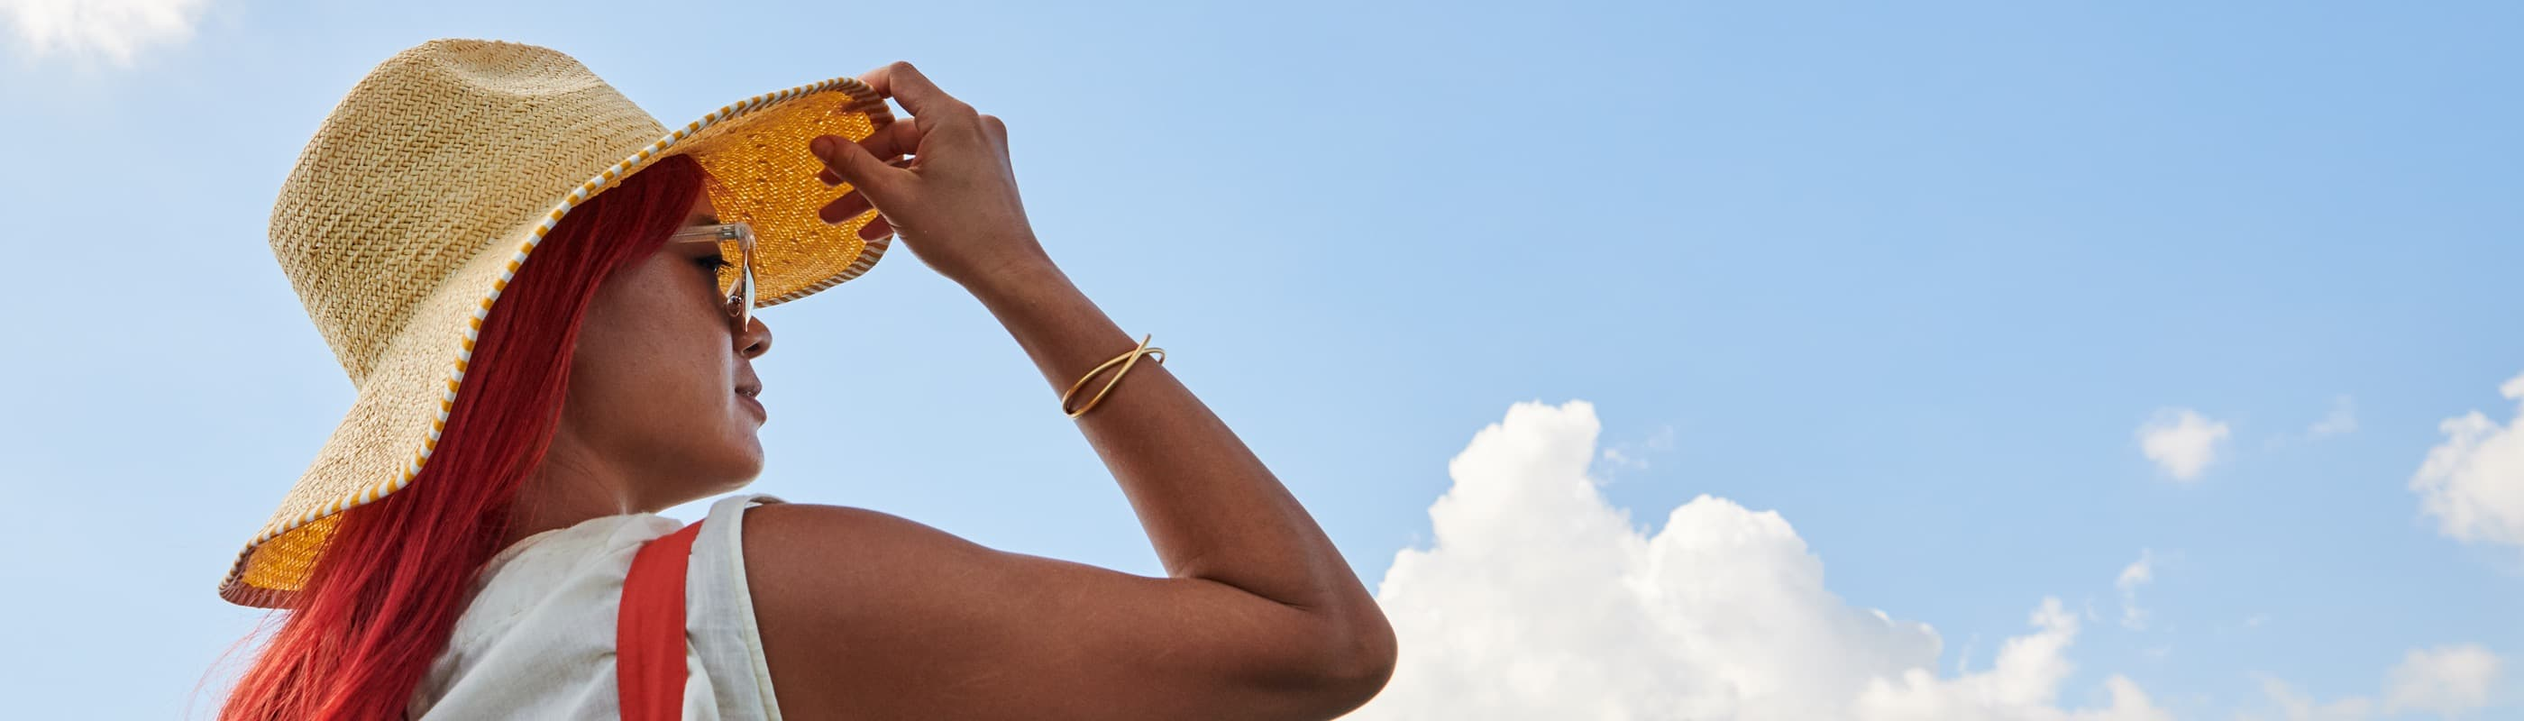
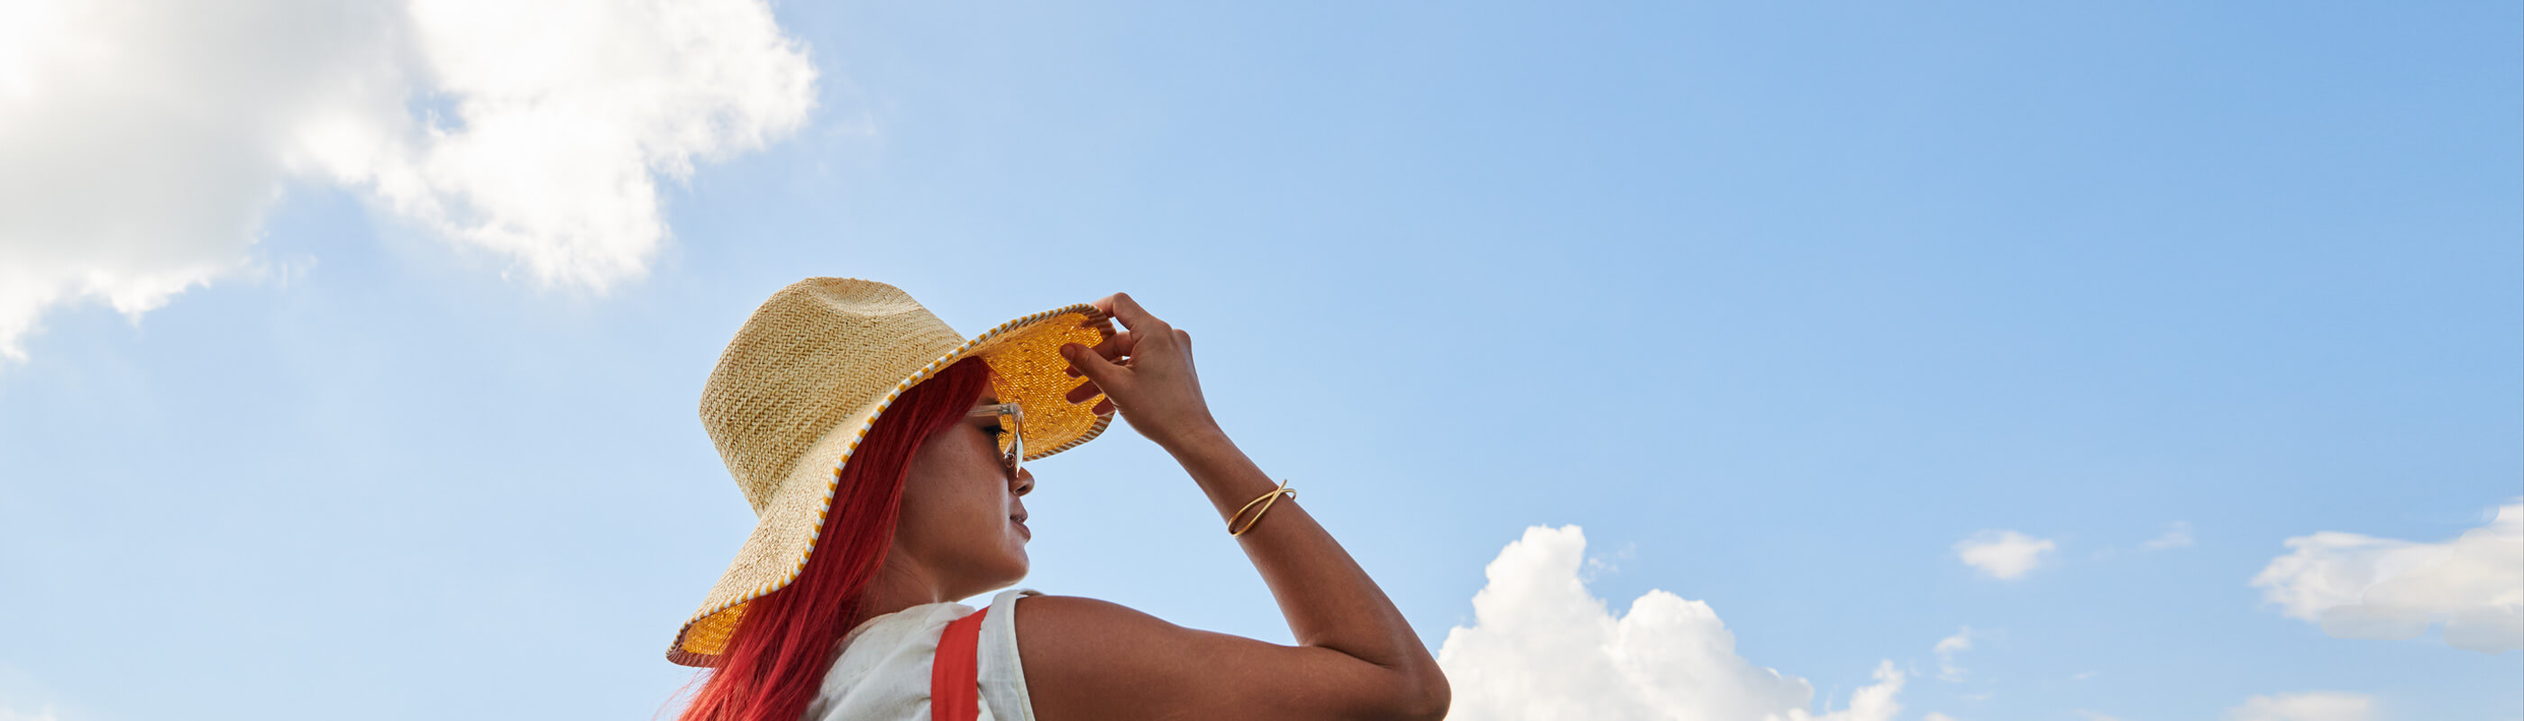
Making updates based on Jen's feedback

diff --git a/app/index.html b/app/index.html
@@ -62,7 +62,7 @@
         <div class="column xs-12 md-12">
           <div class="herobg__content">
             <h1>
-              Limited time offer: <br>$100 statement credit
+              Limited time offer: <br>$100 statement credit<sup>^</sup>
             </h1>
           </div>
         </div>
@@ -90,7 +90,7 @@
           </div>
           <div class="compare__column column xs-12 md-6">
             <img class="compare__img lazy" data-lazy-src="/images/alaska-airlines-world-elite-mastercard.png" alt="">
-            <h2>Alaska Airlines<br> World Elite Mastercard<sup>®</sup></h2>
+            <h2>Alaska Airlines<br> World Elite<sup>&dagger;&dagger;&dagger;&dagger;</sup> Mastercard<sup>®</sup></h2>
             <p>Eligible cardholders can enjoy even more rewards when they fly Alaska.</p>
             <div class="compare__stats">
               <div class="compare__stat">
@@ -103,7 +103,10 @@
                 <p>checked bags<sup>æ</sup></p>
               </div>
             </div>
-            <p><strong>Available for individuals with income greater than $80,000 or households greater than $150,000
+            <p><strong>
+              
+              
+              Available for individuals with income greater than $80,000 or households greater than $150,000
                 CAD.</strong></p>
 
             <a id="worldEliteCTA" href="https://apply.mbna.ca/applicationform/generateApplicationForm.htm?src=DADM15&locale=en_CA&utm_content=mbna_alaskamastercardoffer" class="cta" target="_blank" rel="noopener">Apply now</a>
@@ -257,15 +260,31 @@
     <div class="container">
       <div class="row main-page-footer align-center">
         <div class="column xs-12">
-          <small><sup>&dagger;&dagger;</sup>To qualify for this offer, an applicant must be approved for a Platinum card or a World Elite Card and a single or combination of purchase transactions totaling at least one thousand Canadian dollars (CAD 1,000) must be made using such account within the first 90 days of account opening that are not subsequently rescinded, the subject of a charge back request or otherwise disputed. Please allow 8-10 weeks from the transaction date for bonus Miles to be posted to your Mileage Plan account. Account must be open and active on posting/ delivery date to qualify for bonus Miles. Limit one-time bonus Miles offer (no cash value) per new account. Reissues, fraud, lost/stolen and reopened accounts do not qualify for this offer. This promotion is offered by MBNA and may be amended or cancelled at any time without notice. Additional bonus Miles may be awarded if a completed application is submitted to an Alaska Airlines employee. <br><br>
+
+
+
+          <small>
+            
+            
+            <sup>^</sup> Limited time offer, must apply by June 30th, 2021. To qualify for this offer, an applicant must be approved for a Platinum card or a World Elite Card during the campaign period and a single or combination of purchase transactions totaling at least one thousand Canadian dollars (CAD 1,000) must be made using such account within the first 90 days of account opening that are not subsequently rescinded, the subject of a charge back request or otherwise disputed. Please allow 8-12 weeks from the transaction date for the statement credit to be posted to your account. Account must be open and active on posting/delivery date to qualify for the statement credit. Limit one-time statement credit offer (no cash value) per new account. Reissues, fraud, lost/stolen and reopened accounts do not qualify for this offer. This promotion is offered by MBNA and may be amended or cancelled at any time without notice. This offer is not available to residence of Quebec.<br><br>
+            ® / MBNA and other trademarks are the property of The Toronto-Dominion Bank. 
+            <br/><br/>
+            
+            
+            
+            <sup>&dagger;&dagger;</sup>To qualify for this offer, an applicant must be approved for a Platinum card or a World Elite Card and a single or combination of purchase transactions totaling at least one thousand Canadian dollars (CAD 1,000) must be made using such account within the first 90 days of account opening that are not subsequently rescinded, the subject of a charge back request or otherwise disputed. Please allow 8-10 weeks from the transaction date for bonus Miles to be posted to your Mileage Plan account. Account must be open and active on posting/ delivery date to qualify for bonus Miles. Limit one-time bonus Miles offer (no cash value) per new account. Reissues, fraud, lost/stolen and reopened accounts do not qualify for this offer. This promotion is offered by MBNA and may be amended or cancelled at any time without notice. Additional bonus Miles may be awarded if a completed application is submitted to an Alaska Airlines employee. <br><br>  
+
+            <sup>&dagger;&dagger;&dagger;&dagger;</sup>To be eligible for a World Elite account, your personal annual income must be greater than $80,000, or your household annual income must be $150,000 or greater. Additional account qualification criteria apply as set out in the application.
+            <br><br>
             <sup>æ</sup>Complimentary Checked Bag Benefit: Primary cardholders of the Alaska Airlines World Elite Mastercard® consumer credit card ("World Elite account") who make a qualifying reservation and have an open World Elite account at the time of travel are eligible to receive a baggage allowance on qualifying reservations consisting of one (1) complimentary checked bag per passenger on the same ticket for the same Alaska Airlines flight, up to a maximum of six (6) complimentary checked bags per ticket. Qualifying reservations include flights marketed by Alaska Airlines and operated by Alaska Airlines, Horizon Air, SkyWest or PenAir (codeshare flights operated by other carriers are not eligible). Primary cardholder must be an Alaska Airlines Mileage Plan™ member. Baggage restrictions apply. See <a href="https://www.alaskaair.com/freebagfaq" target="_blank" rel="noopener">alaskaair.com/freebagfaq</a> for complete baggage rules. Payment with the World Elite account is not required to qualify for this benefit. Offer may not be applied retroactively, and no refunds will be issued. Not applicable for passengers who already receive 1 or more free checked bags. New holders of the World Elite account, and cardholders upgrading from another Alaska Airlines credit card to a World Elite account, will be eligible for this benefit approximately 2-3 weeks after approval. This promotion is offered exclusively by Alaska Airlines. The Toronto-Dominion Bank is not responsible or liable for any aspect of this promotion. For a complete explanation of this benefit, please visit <a href="https://www.alaskaair.com/" target="_blank" rel="noopener">www.alaskaair.com</a>.<br><br>
             <sup>◊◊</sup>Companion Certificates can only be used for a coach class seat on an Alaska Airlines operated flight with the purchase of another ticket on the same Alaska Airlines flight within or between the continental United States, Alaska, Canada, Hawaii or Mexico. To obtain the Companion Certificate in the first year of the account, the credit card application must be approved and a single or combination of purchase transactions totaling at least one thousand Canadian dollars (CAD 1,000) must be made using such account within the first 90 days of account opening that are not subsequently rescinded, the subject of a charge back request or otherwise disputed. Please allow 8-10 weeks from the transaction date for the Companion Certificate to be delivered. To qualify for the Companion Certificate in the second and subsequent years of the account, the account must be open and active on the account anniversary. Reissues, fraud, lost/stolen and reopened accounts do not qualify for this offer. This promotion is offered exclusively by Alaska Airlines. The Toronto-Dominion Bank is not responsible or liable for any aspect of this promotion. For a complete explanation of this benefit, please visit <a href="https://www.alaskaair.com/" target="_blank" rel="noopener">www.alaskaair.com</a>.<br><br>
             <sup>‡</sup>These are highlights of the credit card rewards program (the "Program") associated with this credit card account. Miles will be awarded on eligible transactions charged to your account as set out in the Program terms and conditions. Complete terms and conditions describing Program eligibility, accrual and redemption of Miles, and other important conditions, limitations and restrictions will be sent after your account is opened. Please read the terms and conditions carefully upon receipt. Accumulated Miles can only be redeemed in accordance with the Alaska Airlines Mileage Plan program (the "Alaska Program"). The Toronto-Dominion Bank has no liability or responsibility for any aspect of the Alaska Program. Please visit <a href="https://www.alaskaair.com/" target="_blank" rel="noopener">www.alaskaair.com</a> for complete Alaska Program terms and conditions.<br><br>
             <sup>§</sup>International partner award travel starts at 22,500 miles each way, plus taxes and fees from $12.50. See complete award chart for additional details <a href="https://www.alaskaair.com/content/mileage-plan/use-miles/award-charts" target="_blank" rel="noopener">here</a>.<br><br>
             The Toronto-Dominion Bank is the issuer of this credit card. MBNA is a division of The Toronto-Dominion Bank.<br><br>
-            All trademarks are the property of their respective owners.<br><br>
-            <sup>^</sup> Limited time offer, must apply by June 30th, 2021. To qualify for this offer, an applicant must be approved for a Platinum card or a World Elite Card during the campaign period and a single or combination of purchase transactions totaling at least one thousand Canadian dollars (CAD 1,000) must be made using such account within the first 90 days of account opening that are not subsequently rescinded, the subject of a charge back request or otherwise disputed. Please allow 8-12 weeks from the transaction date for the statement credit to be posted to your account. Account must be open and active on posting/delivery date to qualify for the statement credit. Limit one-time statement credit offer (no cash value) per new account. Reissues, fraud, lost/stolen and reopened accounts do not qualify for this offer. This promotion is offered by MBNA and may be amended or cancelled at any time without notice. This offer is not available to residence of Quebec.<br><br>
-            ® / MBNA and other trademarks are the property of The Toronto-Dominion Bank. </small>
+            All trademarks are the property of their respective owners.
+
+          </small>
+            
         </div>
       </div>
     </div>

diff --git a/assets/src/views/index.html b/assets/src/views/index.html
@@ -62,7 +62,7 @@
         <div class="column xs-12 md-12">
           <div class="herobg__content">
             <h1>
-              Limited time offer: <br>$100 statement credit
+              Limited time offer: <br>$100 statement credit<sup>^</sup>
             </h1>
           </div>
         </div>
@@ -90,7 +90,7 @@
           </div>
           <div class="compare__column column xs-12 md-6">
             <img class="compare__img lazy" data-lazy-src="/images/alaska-airlines-world-elite-mastercard.png" alt="">
-            <h2>Alaska Airlines<br> World Elite Mastercard<sup>®</sup></h2>
+            <h2>Alaska Airlines<br> World Elite<sup>&dagger;&dagger;&dagger;&dagger;</sup> Mastercard<sup>®</sup></h2>
             <p>Eligible cardholders can enjoy even more rewards when they fly Alaska.</p>
             <div class="compare__stats">
               <div class="compare__stat">
@@ -103,7 +103,10 @@
                 <p>checked bags<sup>æ</sup></p>
               </div>
             </div>
-            <p><strong>Available for individuals with income greater than $80,000 or households greater than $150,000
+            <p><strong>
+              
+              
+              Available for individuals with income greater than $80,000 or households greater than $150,000
                 CAD.</strong></p>
 
             <a id="worldEliteCTA" href="https://apply.mbna.ca/applicationform/generateApplicationForm.htm?src=DADM15&locale=en_CA&utm_content=mbna_alaskamastercardoffer" class="cta" target="_blank" rel="noopener">Apply now</a>
@@ -257,15 +260,31 @@
     <div class="container">
       <div class="row main-page-footer align-center">
         <div class="column xs-12">
-          <small><sup>&dagger;&dagger;</sup>To qualify for this offer, an applicant must be approved for a Platinum card or a World Elite Card and a single or combination of purchase transactions totaling at least one thousand Canadian dollars (CAD 1,000) must be made using such account within the first 90 days of account opening that are not subsequently rescinded, the subject of a charge back request or otherwise disputed. Please allow 8-10 weeks from the transaction date for bonus Miles to be posted to your Mileage Plan account. Account must be open and active on posting/ delivery date to qualify for bonus Miles. Limit one-time bonus Miles offer (no cash value) per new account. Reissues, fraud, lost/stolen and reopened accounts do not qualify for this offer. This promotion is offered by MBNA and may be amended or cancelled at any time without notice. Additional bonus Miles may be awarded if a completed application is submitted to an Alaska Airlines employee. <br><br>
+
+
+
+          <small>
+            
+            
+            <sup>^</sup> Limited time offer, must apply by June 30th, 2021. To qualify for this offer, an applicant must be approved for a Platinum card or a World Elite Card during the campaign period and a single or combination of purchase transactions totaling at least one thousand Canadian dollars (CAD 1,000) must be made using such account within the first 90 days of account opening that are not subsequently rescinded, the subject of a charge back request or otherwise disputed. Please allow 8-12 weeks from the transaction date for the statement credit to be posted to your account. Account must be open and active on posting/delivery date to qualify for the statement credit. Limit one-time statement credit offer (no cash value) per new account. Reissues, fraud, lost/stolen and reopened accounts do not qualify for this offer. This promotion is offered by MBNA and may be amended or cancelled at any time without notice. This offer is not available to residence of Quebec.<br><br>
+            ® / MBNA and other trademarks are the property of The Toronto-Dominion Bank. 
+            <br/><br/>
+            
+            
+            
+            <sup>&dagger;&dagger;</sup>To qualify for this offer, an applicant must be approved for a Platinum card or a World Elite Card and a single or combination of purchase transactions totaling at least one thousand Canadian dollars (CAD 1,000) must be made using such account within the first 90 days of account opening that are not subsequently rescinded, the subject of a charge back request or otherwise disputed. Please allow 8-10 weeks from the transaction date for bonus Miles to be posted to your Mileage Plan account. Account must be open and active on posting/ delivery date to qualify for bonus Miles. Limit one-time bonus Miles offer (no cash value) per new account. Reissues, fraud, lost/stolen and reopened accounts do not qualify for this offer. This promotion is offered by MBNA and may be amended or cancelled at any time without notice. Additional bonus Miles may be awarded if a completed application is submitted to an Alaska Airlines employee. <br><br>  
+
+            <sup>&dagger;&dagger;&dagger;&dagger;</sup>To be eligible for a World Elite account, your personal annual income must be greater than $80,000, or your household annual income must be $150,000 or greater. Additional account qualification criteria apply as set out in the application.
+            <br><br>
             <sup>æ</sup>Complimentary Checked Bag Benefit: Primary cardholders of the Alaska Airlines World Elite Mastercard® consumer credit card ("World Elite account") who make a qualifying reservation and have an open World Elite account at the time of travel are eligible to receive a baggage allowance on qualifying reservations consisting of one (1) complimentary checked bag per passenger on the same ticket for the same Alaska Airlines flight, up to a maximum of six (6) complimentary checked bags per ticket. Qualifying reservations include flights marketed by Alaska Airlines and operated by Alaska Airlines, Horizon Air, SkyWest or PenAir (codeshare flights operated by other carriers are not eligible). Primary cardholder must be an Alaska Airlines Mileage Plan™ member. Baggage restrictions apply. See <a href="https://www.alaskaair.com/freebagfaq" target="_blank" rel="noopener">alaskaair.com/freebagfaq</a> for complete baggage rules. Payment with the World Elite account is not required to qualify for this benefit. Offer may not be applied retroactively, and no refunds will be issued. Not applicable for passengers who already receive 1 or more free checked bags. New holders of the World Elite account, and cardholders upgrading from another Alaska Airlines credit card to a World Elite account, will be eligible for this benefit approximately 2-3 weeks after approval. This promotion is offered exclusively by Alaska Airlines. The Toronto-Dominion Bank is not responsible or liable for any aspect of this promotion. For a complete explanation of this benefit, please visit <a href="https://www.alaskaair.com/" target="_blank" rel="noopener">www.alaskaair.com</a>.<br><br>
             <sup>◊◊</sup>Companion Certificates can only be used for a coach class seat on an Alaska Airlines operated flight with the purchase of another ticket on the same Alaska Airlines flight within or between the continental United States, Alaska, Canada, Hawaii or Mexico. To obtain the Companion Certificate in the first year of the account, the credit card application must be approved and a single or combination of purchase transactions totaling at least one thousand Canadian dollars (CAD 1,000) must be made using such account within the first 90 days of account opening that are not subsequently rescinded, the subject of a charge back request or otherwise disputed. Please allow 8-10 weeks from the transaction date for the Companion Certificate to be delivered. To qualify for the Companion Certificate in the second and subsequent years of the account, the account must be open and active on the account anniversary. Reissues, fraud, lost/stolen and reopened accounts do not qualify for this offer. This promotion is offered exclusively by Alaska Airlines. The Toronto-Dominion Bank is not responsible or liable for any aspect of this promotion. For a complete explanation of this benefit, please visit <a href="https://www.alaskaair.com/" target="_blank" rel="noopener">www.alaskaair.com</a>.<br><br>
             <sup>‡</sup>These are highlights of the credit card rewards program (the "Program") associated with this credit card account. Miles will be awarded on eligible transactions charged to your account as set out in the Program terms and conditions. Complete terms and conditions describing Program eligibility, accrual and redemption of Miles, and other important conditions, limitations and restrictions will be sent after your account is opened. Please read the terms and conditions carefully upon receipt. Accumulated Miles can only be redeemed in accordance with the Alaska Airlines Mileage Plan program (the "Alaska Program"). The Toronto-Dominion Bank has no liability or responsibility for any aspect of the Alaska Program. Please visit <a href="https://www.alaskaair.com/" target="_blank" rel="noopener">www.alaskaair.com</a> for complete Alaska Program terms and conditions.<br><br>
             <sup>§</sup>International partner award travel starts at 22,500 miles each way, plus taxes and fees from $12.50. See complete award chart for additional details <a href="https://www.alaskaair.com/content/mileage-plan/use-miles/award-charts" target="_blank" rel="noopener">here</a>.<br><br>
             The Toronto-Dominion Bank is the issuer of this credit card. MBNA is a division of The Toronto-Dominion Bank.<br><br>
-            All trademarks are the property of their respective owners.<br><br>
-            <sup>^</sup> Limited time offer, must apply by June 30th, 2021. To qualify for this offer, an applicant must be approved for a Platinum card or a World Elite Card during the campaign period and a single or combination of purchase transactions totaling at least one thousand Canadian dollars (CAD 1,000) must be made using such account within the first 90 days of account opening that are not subsequently rescinded, the subject of a charge back request or otherwise disputed. Please allow 8-12 weeks from the transaction date for the statement credit to be posted to your account. Account must be open and active on posting/delivery date to qualify for the statement credit. Limit one-time statement credit offer (no cash value) per new account. Reissues, fraud, lost/stolen and reopened accounts do not qualify for this offer. This promotion is offered by MBNA and may be amended or cancelled at any time without notice. This offer is not available to residence of Quebec.<br><br>
-            ® / MBNA and other trademarks are the property of The Toronto-Dominion Bank. </small>
+            All trademarks are the property of their respective owners.
+
+          </small>
+            
         </div>
       </div>
     </div>

diff --git a/assets/src/scss/components/_hero.scss b/assets/src/scss/components/_hero.scss
@@ -3,7 +3,7 @@
   height: 400px;
   width: 100%;
   background-color: $white;
-  background-image: url("../images/Alaska_Bali_Beach_4804_750px_800px.jpg");
+  background-image: url('../images/Alaska_Bali_Beach_4804_750px_800px.jpg');
   text-align: center;
   background-repeat: no-repeat;
   background-position: center bottom;
@@ -19,9 +19,7 @@
       color: $atlasblue;
       font-size: 35px;
       line-height: 40px;
-      // @include bp(sm) {
-      //   color: $white;
-      // }
+
       br {
         display: none;
         visibility: hidden;
@@ -41,20 +39,16 @@
   @include bp(sm) {
     padding-top: 30px;
     min-height: 400px;
-    background-image: url("../images/Alaska_Bali_Beach_4804_2800px_800px.jpg");
+    background-image: url('../images/Alaska_Bali_Beach_4804_2800px_800px.jpg');
     background-size: cover;
     background-position: 60% top;
   }
-
-  // @include bp(md) {
-  //   background-position: 60% top;
-  // }
 
   @include bp(lg) {
     background-position: 67% top;
   }
 
   @include bp(xl) {
-    background-position: 100% top;
+    background-position: center bottom;
   }
 }

diff --git a/app/css/styles.css b/app/css/styles.css
@@ -1090,7 +1090,7 @@ header img {
 
 @media (min-width: 1200px) {
   .herobg {
-    background-position: 100% top;
+    background-position: center bottom;
   }
 }
 
